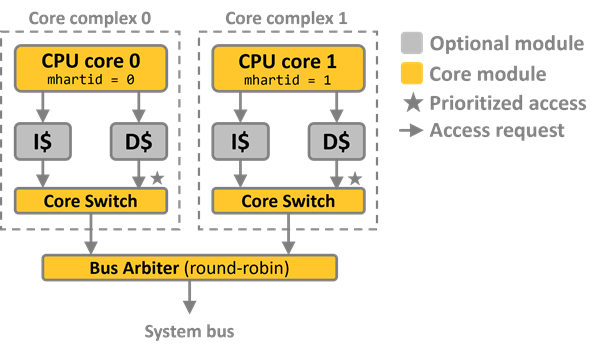
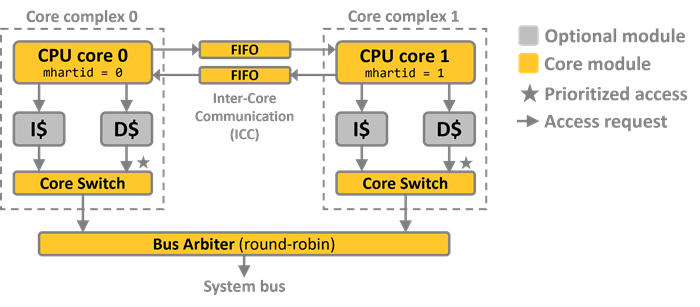
[docs] add inter-core communication

diff --git a/README.md b/README.md
@@ -96,7 +96,8 @@ setup according to your needs. Note that all of the following SoC modules are en
 **CPU Core**
 
 * [![RISCV-ARCHID](https://img.shields.io/badge/RISC--V%20Architecture%20ID-19-000000.svg?longCache=true&style=flat-square&logo=riscv&colorA=273274&colorB=fbb517)](https://github.com/riscv/riscv-isa-manual/blob/master/marchid.md)
-* RISC-V 32-bit little-endian single- or SMP-dual-core pipelined/multi-cycle modified Harvard architecture
+* RISC-V 32-bit little-endian pipelined/multi-cycle modified Harvard architecture
+* Single-core or SMP dual-core configuration (including low-latency inter-core communication)
 * configurable [instruction sets and extensions](https://stnolting.github.io/neorv32/#_instruction_sets_and_extensions):
 \
 `RV32`
